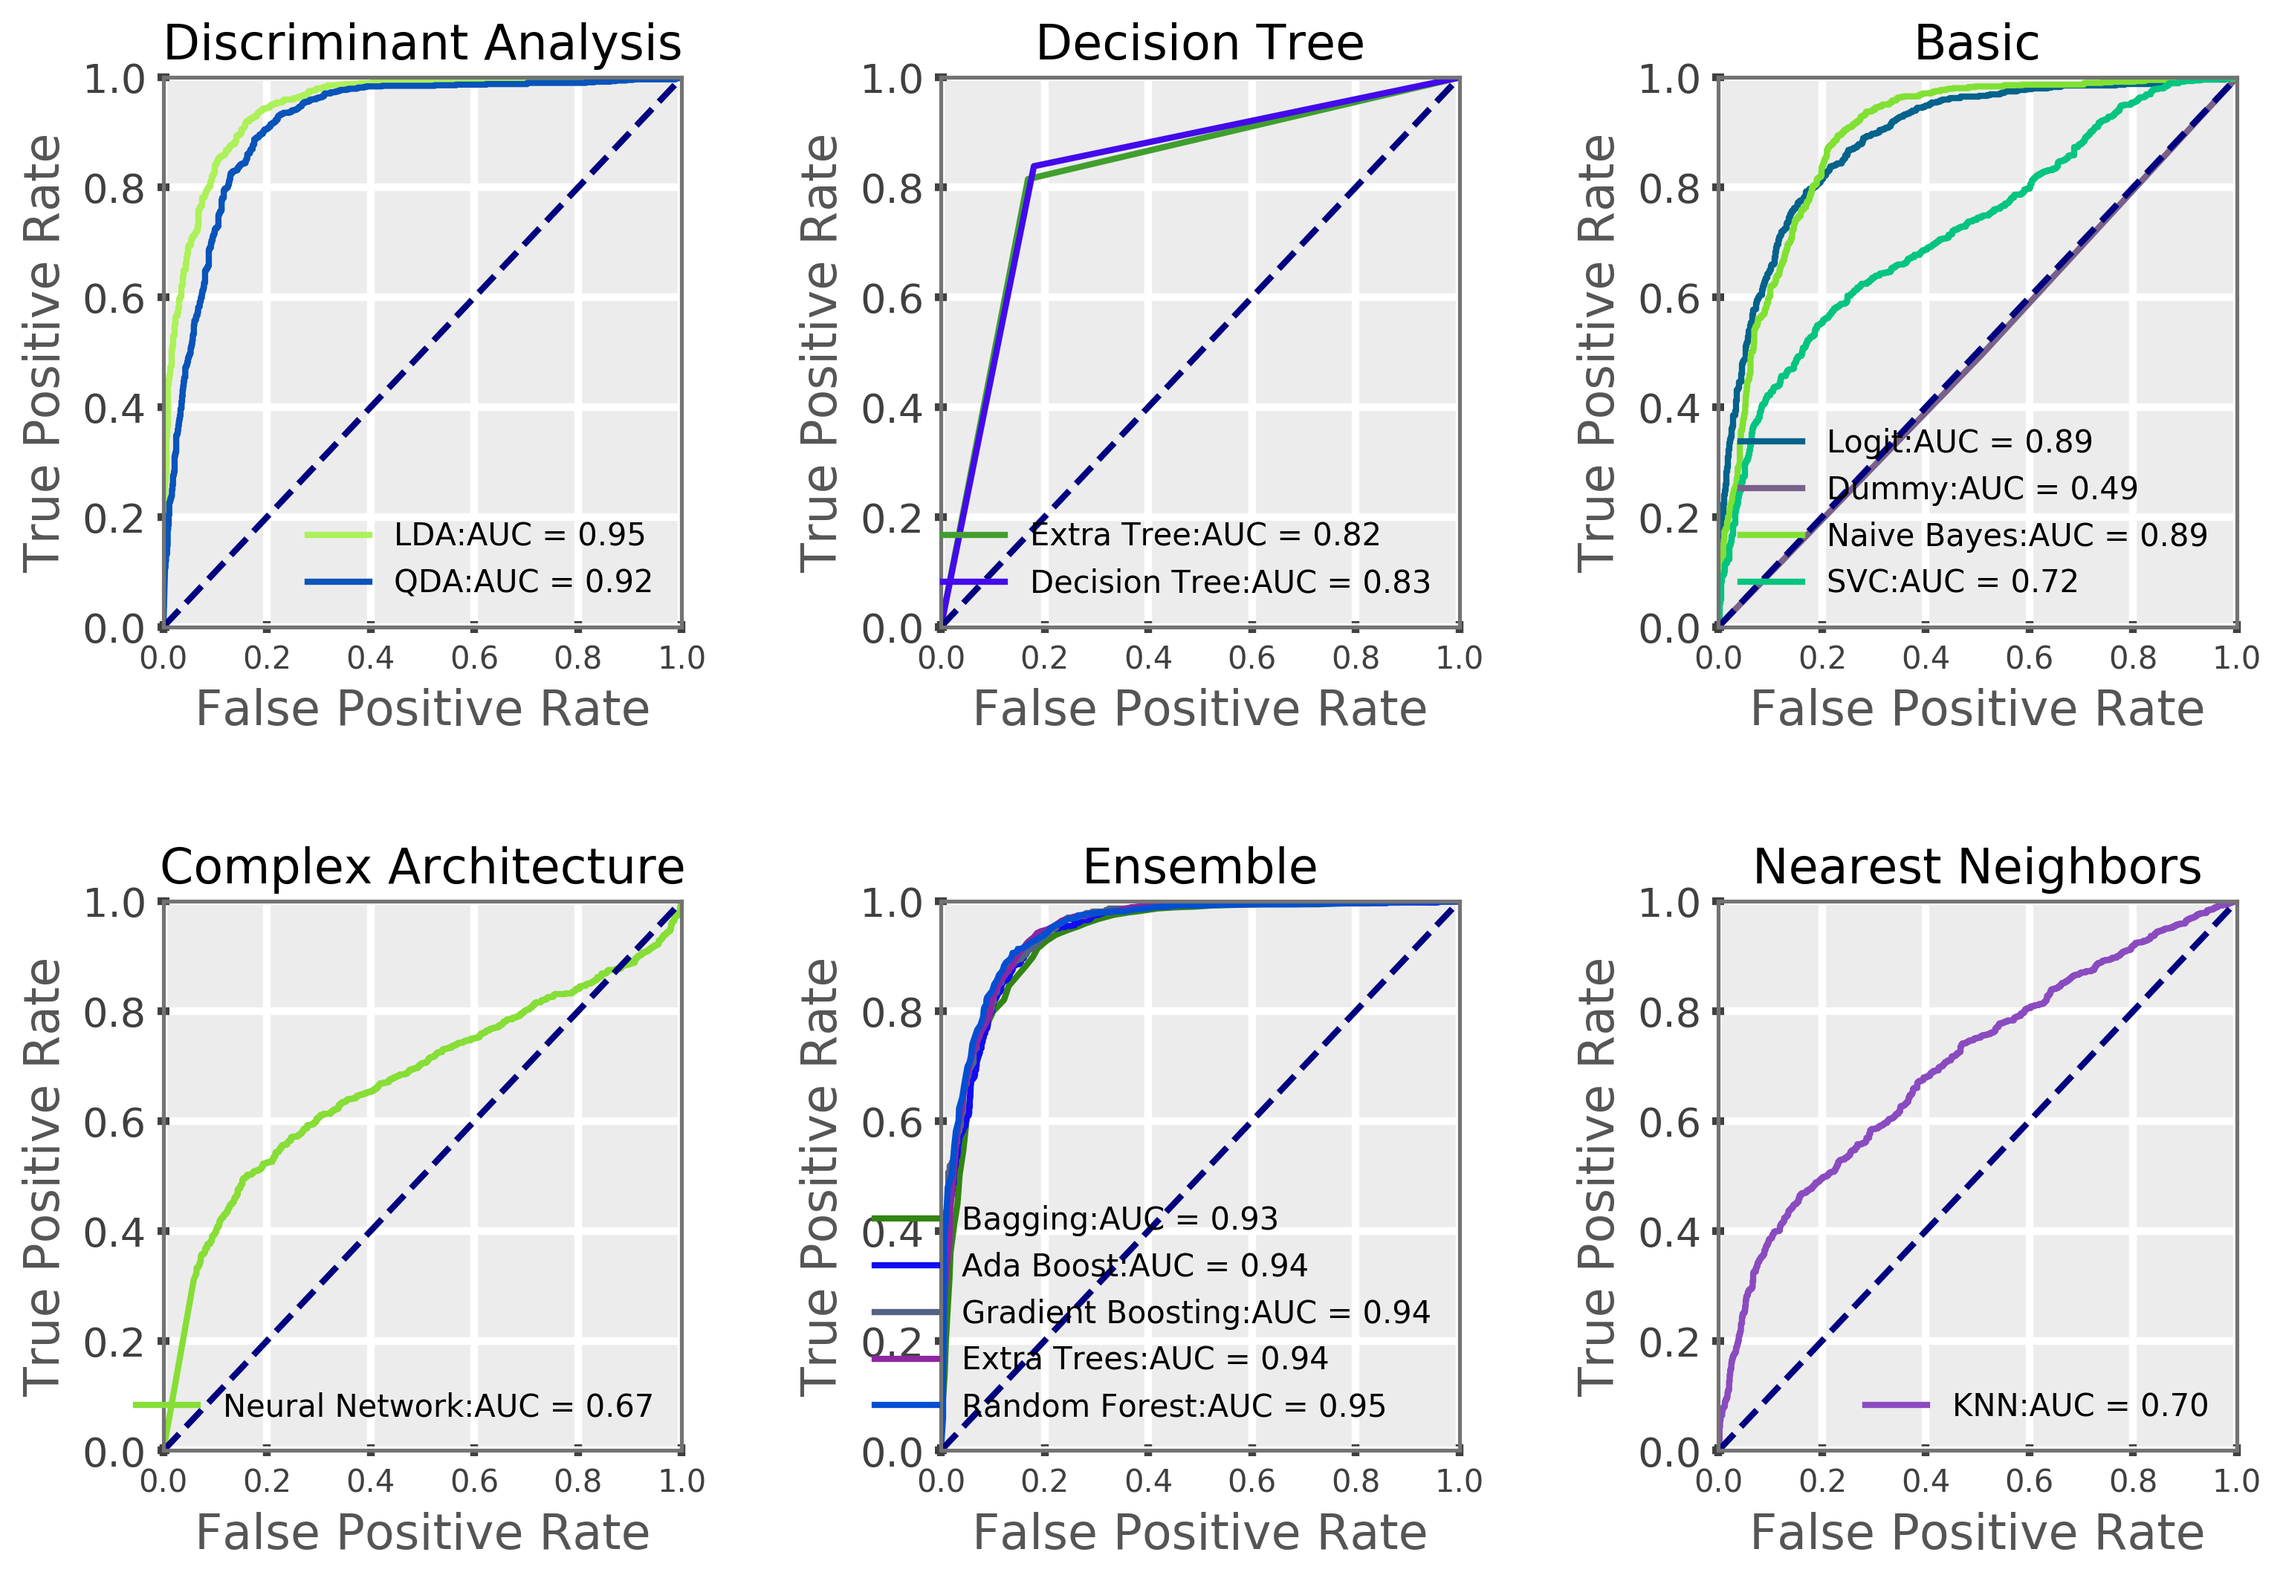
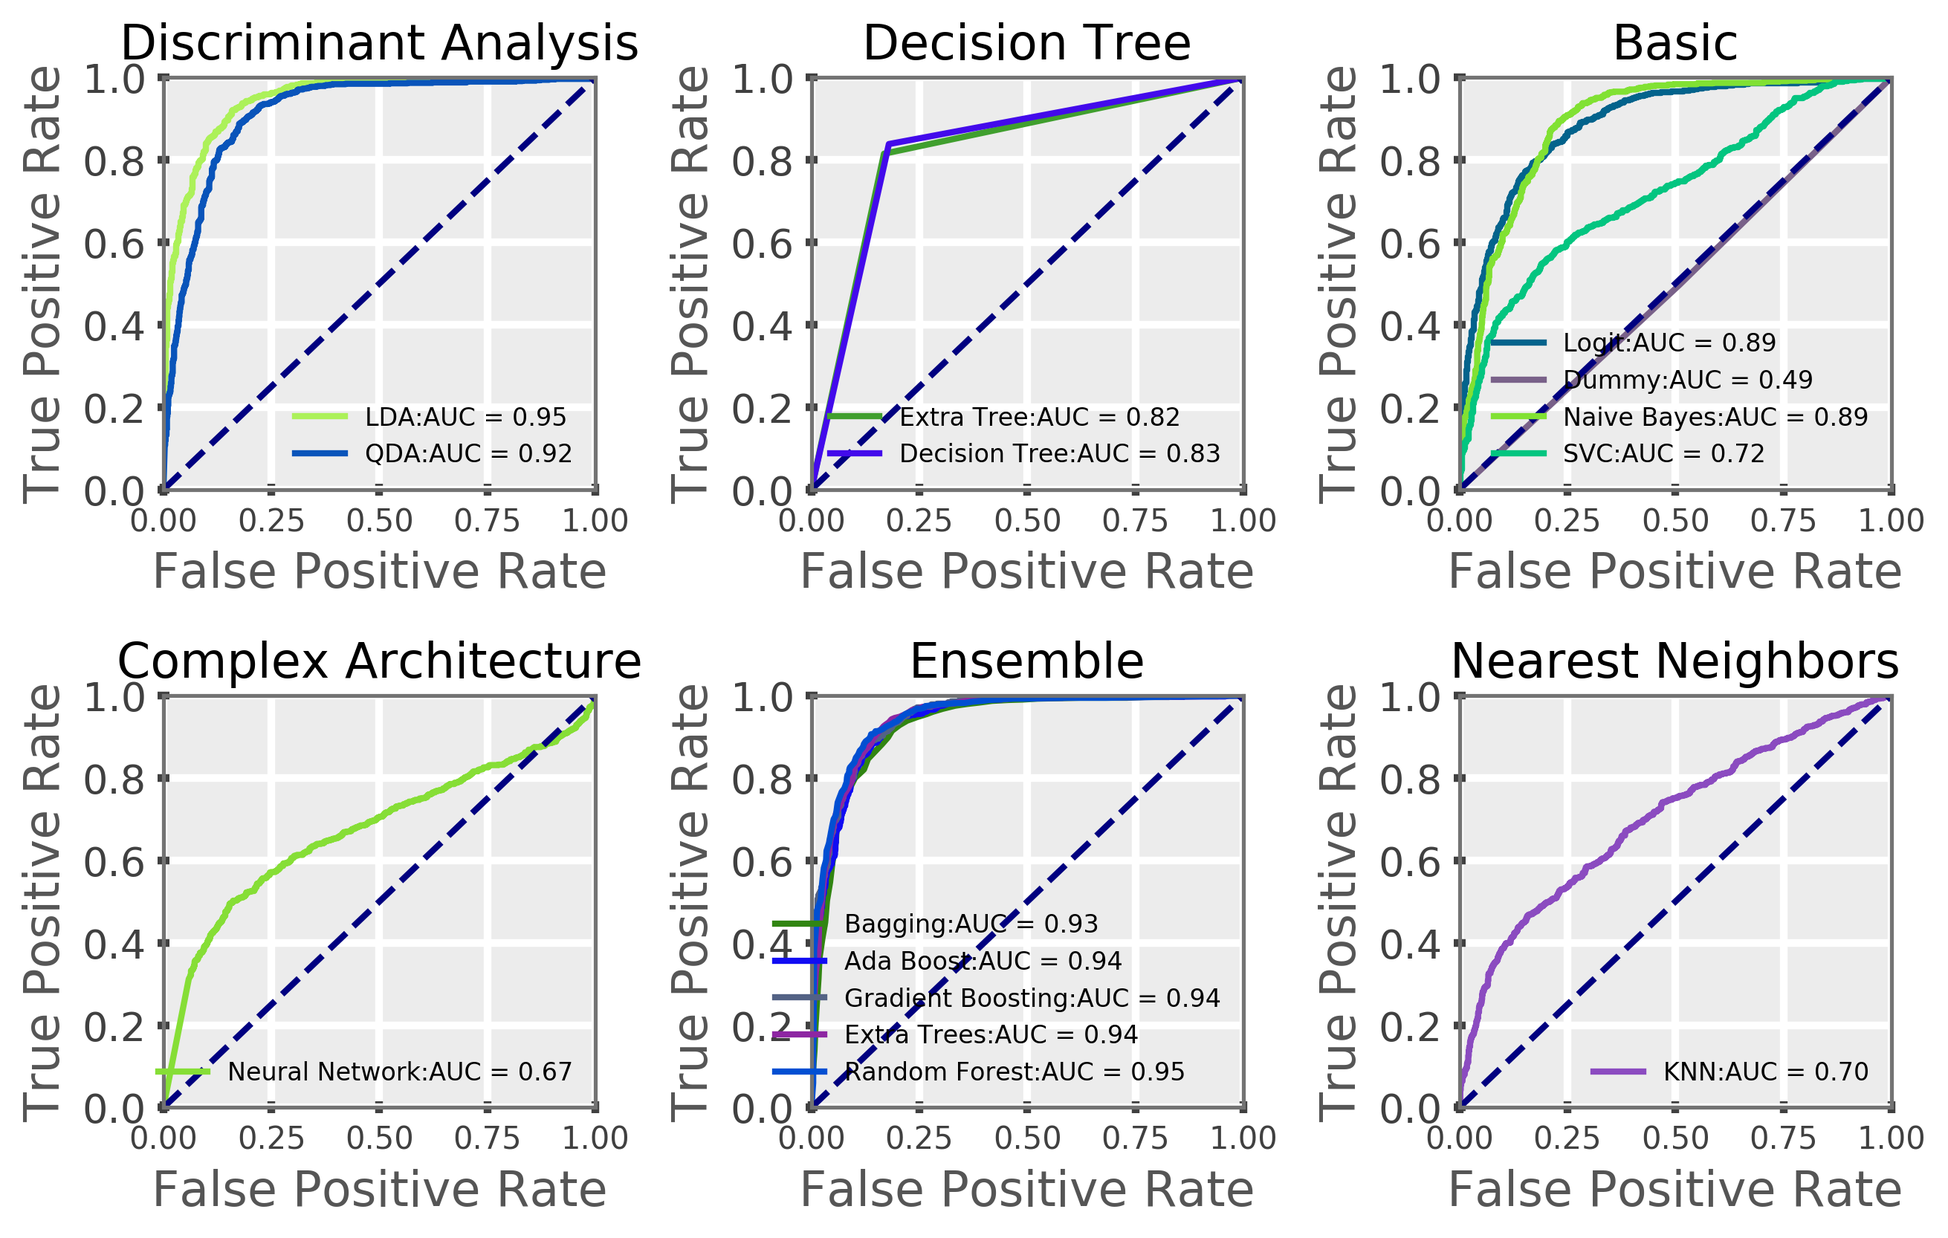
Report Modification

diff --git a/util.py b/util.py
@@ -123,7 +123,7 @@ def get_roc_details(clf, X_test, y_test):
     return y_score, fpr, tpr, roc_auc
 
 def plot_deterministic_roc_curves(roc_eval_details, tag):
-    fig, axes = plt.subplots(nrows=2,ncols=3,figsize=(12,8),dpi=150)
+    fig, axes = plt.subplots(nrows=2,ncols=3,figsize=(10,6),dpi=150)
     fig.subplots_adjust(wspace=0.5,hspace=0.5)
     splot.style("spacepy")
     lw = 2
@@ -142,7 +142,7 @@ def plot_deterministic_roc_curves(roc_eval_details, tag):
         ax.set_title(gname)
         ax.set_xlabel("False Positive Rate")
         ax.set_ylabel("True Positive Rate")
-        ax.legend(loc="lower right",prop={"size": 10})
+        ax.legend(loc="lower right",prop={"size": 8})
         I = I + 1
         pass
     fig.savefig("out/deterministinc_forecast_models_roc_curves_%s.png"%tag,bbox_inches="tight")
